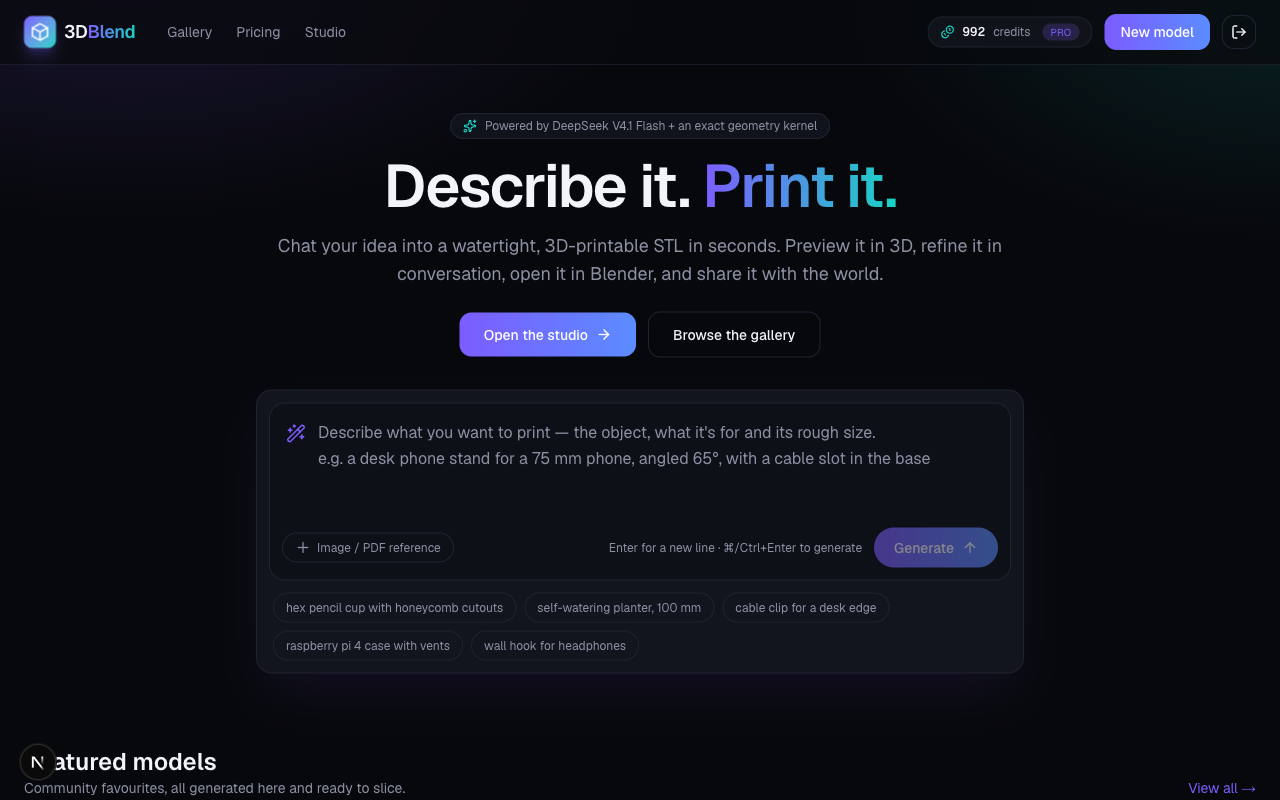
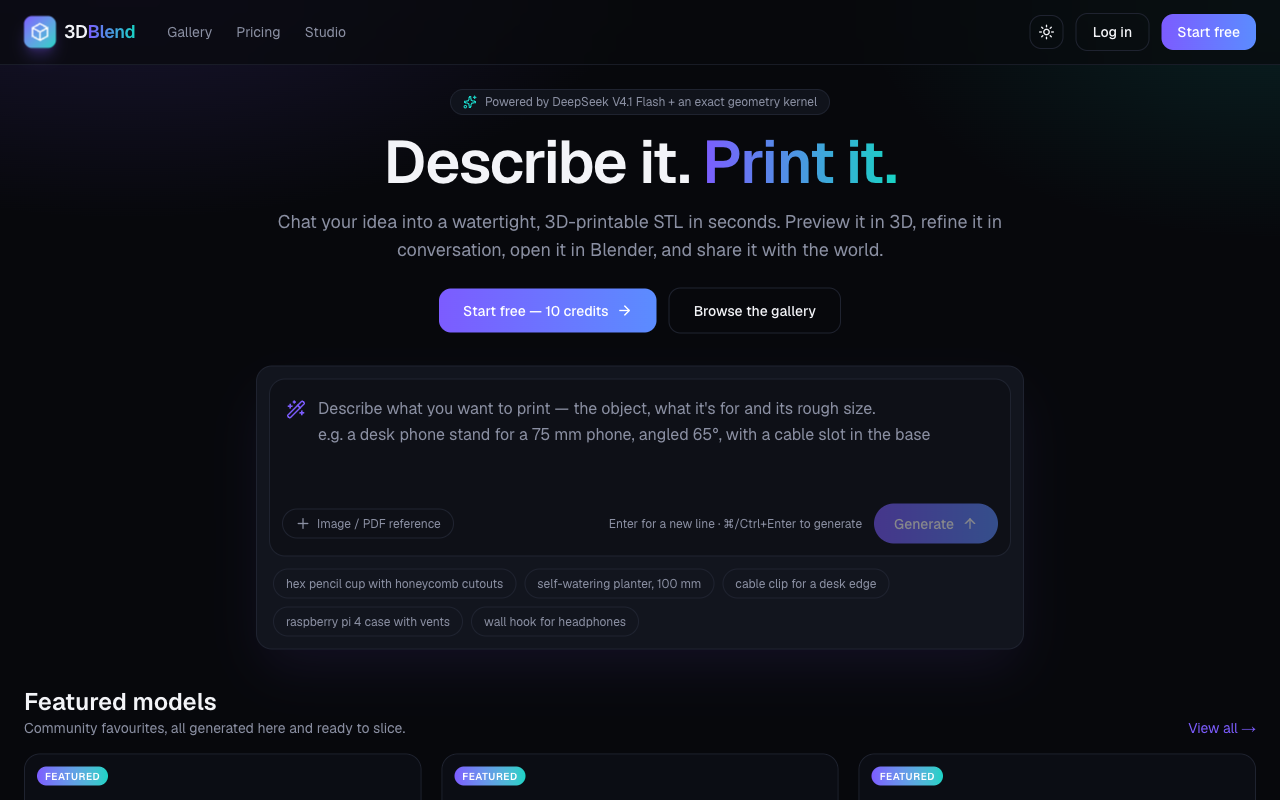
docs: README reconciled (HitPay/SMTP wording, Dashboard nav) and live screenshot refreshed

diff --git a/README.md b/README.md
@@ -28,7 +28,7 @@ Inspired by Meshy AI and Tripo AI, built for Blender users and FDM printers.
 - **FAQ and contact footer** — credits per generation, formats, printers, licensing; contact details come from `src/lib/site.ts`.
 - **Light and dark themes** — toggle in the navbar, remembered per browser, defaults to the OS preference; the viewer background and grid follow the theme.
 - **Gallery & social** — auto‑rotating 3D cards, publish/unpublish, thumbs‑up, view & download counters, share to X / Facebook / LinkedIn / WhatsApp / Reddit, copy link, Web Share API, *Remix in studio*.
-- **Accounts & credits** — email/password auth (Auth.js), atomic credit deduction, refunds on failure, monthly top‑ups.
+- **Accounts & credits** — email/password auth (Auth.js), atomic credit deduction, refunds on failure, monthly top‑ups; the navbar **Dashboard** button opens the account page (or the admin backend for admins).
 - **HitPay subscriptions** — Starter/Pro checkout on HitPay's hosted page (cards, PayNow and more); activation is verified against HitPay's API, every charge auto‑generates a numbered invoice (PDF download from the account page) and resets credits; users can cancel anytime and keep access until the paid period ends; a daily reconciliation keeps subscriptions in sync even if a webhook is missed.
 - **Remix attribution** — remixing a gallery model records the original (`remixOfId`) and a "Title by Author" snapshot that every later version inherits; shown on the share page, in the studio, on gallery cards and inside the 3MF metadata (CC BY 4.0).
 - **Visibility by plan** — Free‑plan models are always public in the gallery; Starter and Pro models are private until the owner publishes them (`defaultVisibility` / `canMakePrivate` in `src/lib/plans.ts`).
@@ -119,7 +119,7 @@ npm run agent -- "a desk phone stand for a 75mm wide phone, angled 65 degrees, w
 | `DEEPSEEK_MODEL` | | default `deepseek-flash` (= DeepSeek‑V4.1‑Flash) |
 | `DATABASE_URL` | ✅ | PostgreSQL connection string |
 | `AUTH_SECRET` | ✅ | `openssl rand -base64 32` |
-| `NEXT_PUBLIC_APP_URL` / `NEXTAUTH_URL` | ✅ | public URL (share links, Stripe redirects) |
+| `NEXT_PUBLIC_APP_URL` / `NEXTAUTH_URL` | ✅ | public URL (share links, HitPay redirect and webhook URLs, email links) |
 | `STORAGE_DIR` | | where STL / .py files live (`/data/storage` in Docker, mount a volume) |
 | `HITPAY_API_KEY`, `HITPAY_SALT`, `HITPAY_WEBHOOK_SALT`, `HITPAY_SANDBOX`, `HITPAY_CURRENCY` | | enable paid upgrades via HitPay recurring billing (sandbox with `HITPAY_SANDBOX=1`); without a key the UI shows “Coming soon” |
 | `CRON_SECRET` | | protects `GET /api/cron/reset-credits` (monthly top‑ups) |
@@ -138,7 +138,7 @@ The production instance was created through the Coolify API; the same steps work
 5. On every boot the entrypoint runs `prisma db push` so the schema is always in sync; sample models are seeded on the first page view.
 6. Optional: a Coolify *Scheduled Task* that runs daily:
    `curl -fsS -H "x-cron-secret: $CRON_SECRET" https://3dblend.tertiaryinfotech.com/api/cron/reset-credits`
-7. Optional: point a Stripe webhook at `https://3dblend.tertiaryinfotech.com/api/billing/webhook` for `checkout.session.completed`, `invoice.paid`, `customer.subscription.deleted`.
+7. SMTP for transactional email can be set in Admin → Integrations (or via the `SMTP_*` variables); use the test buttons there to verify DeepSeek, HitPay and SMTP after deploying.
 
 Local run of the same stack: `docker compose -f docker-compose.yml -f docker-compose.local.yml up --build` (the override publishes port 3000).
 
